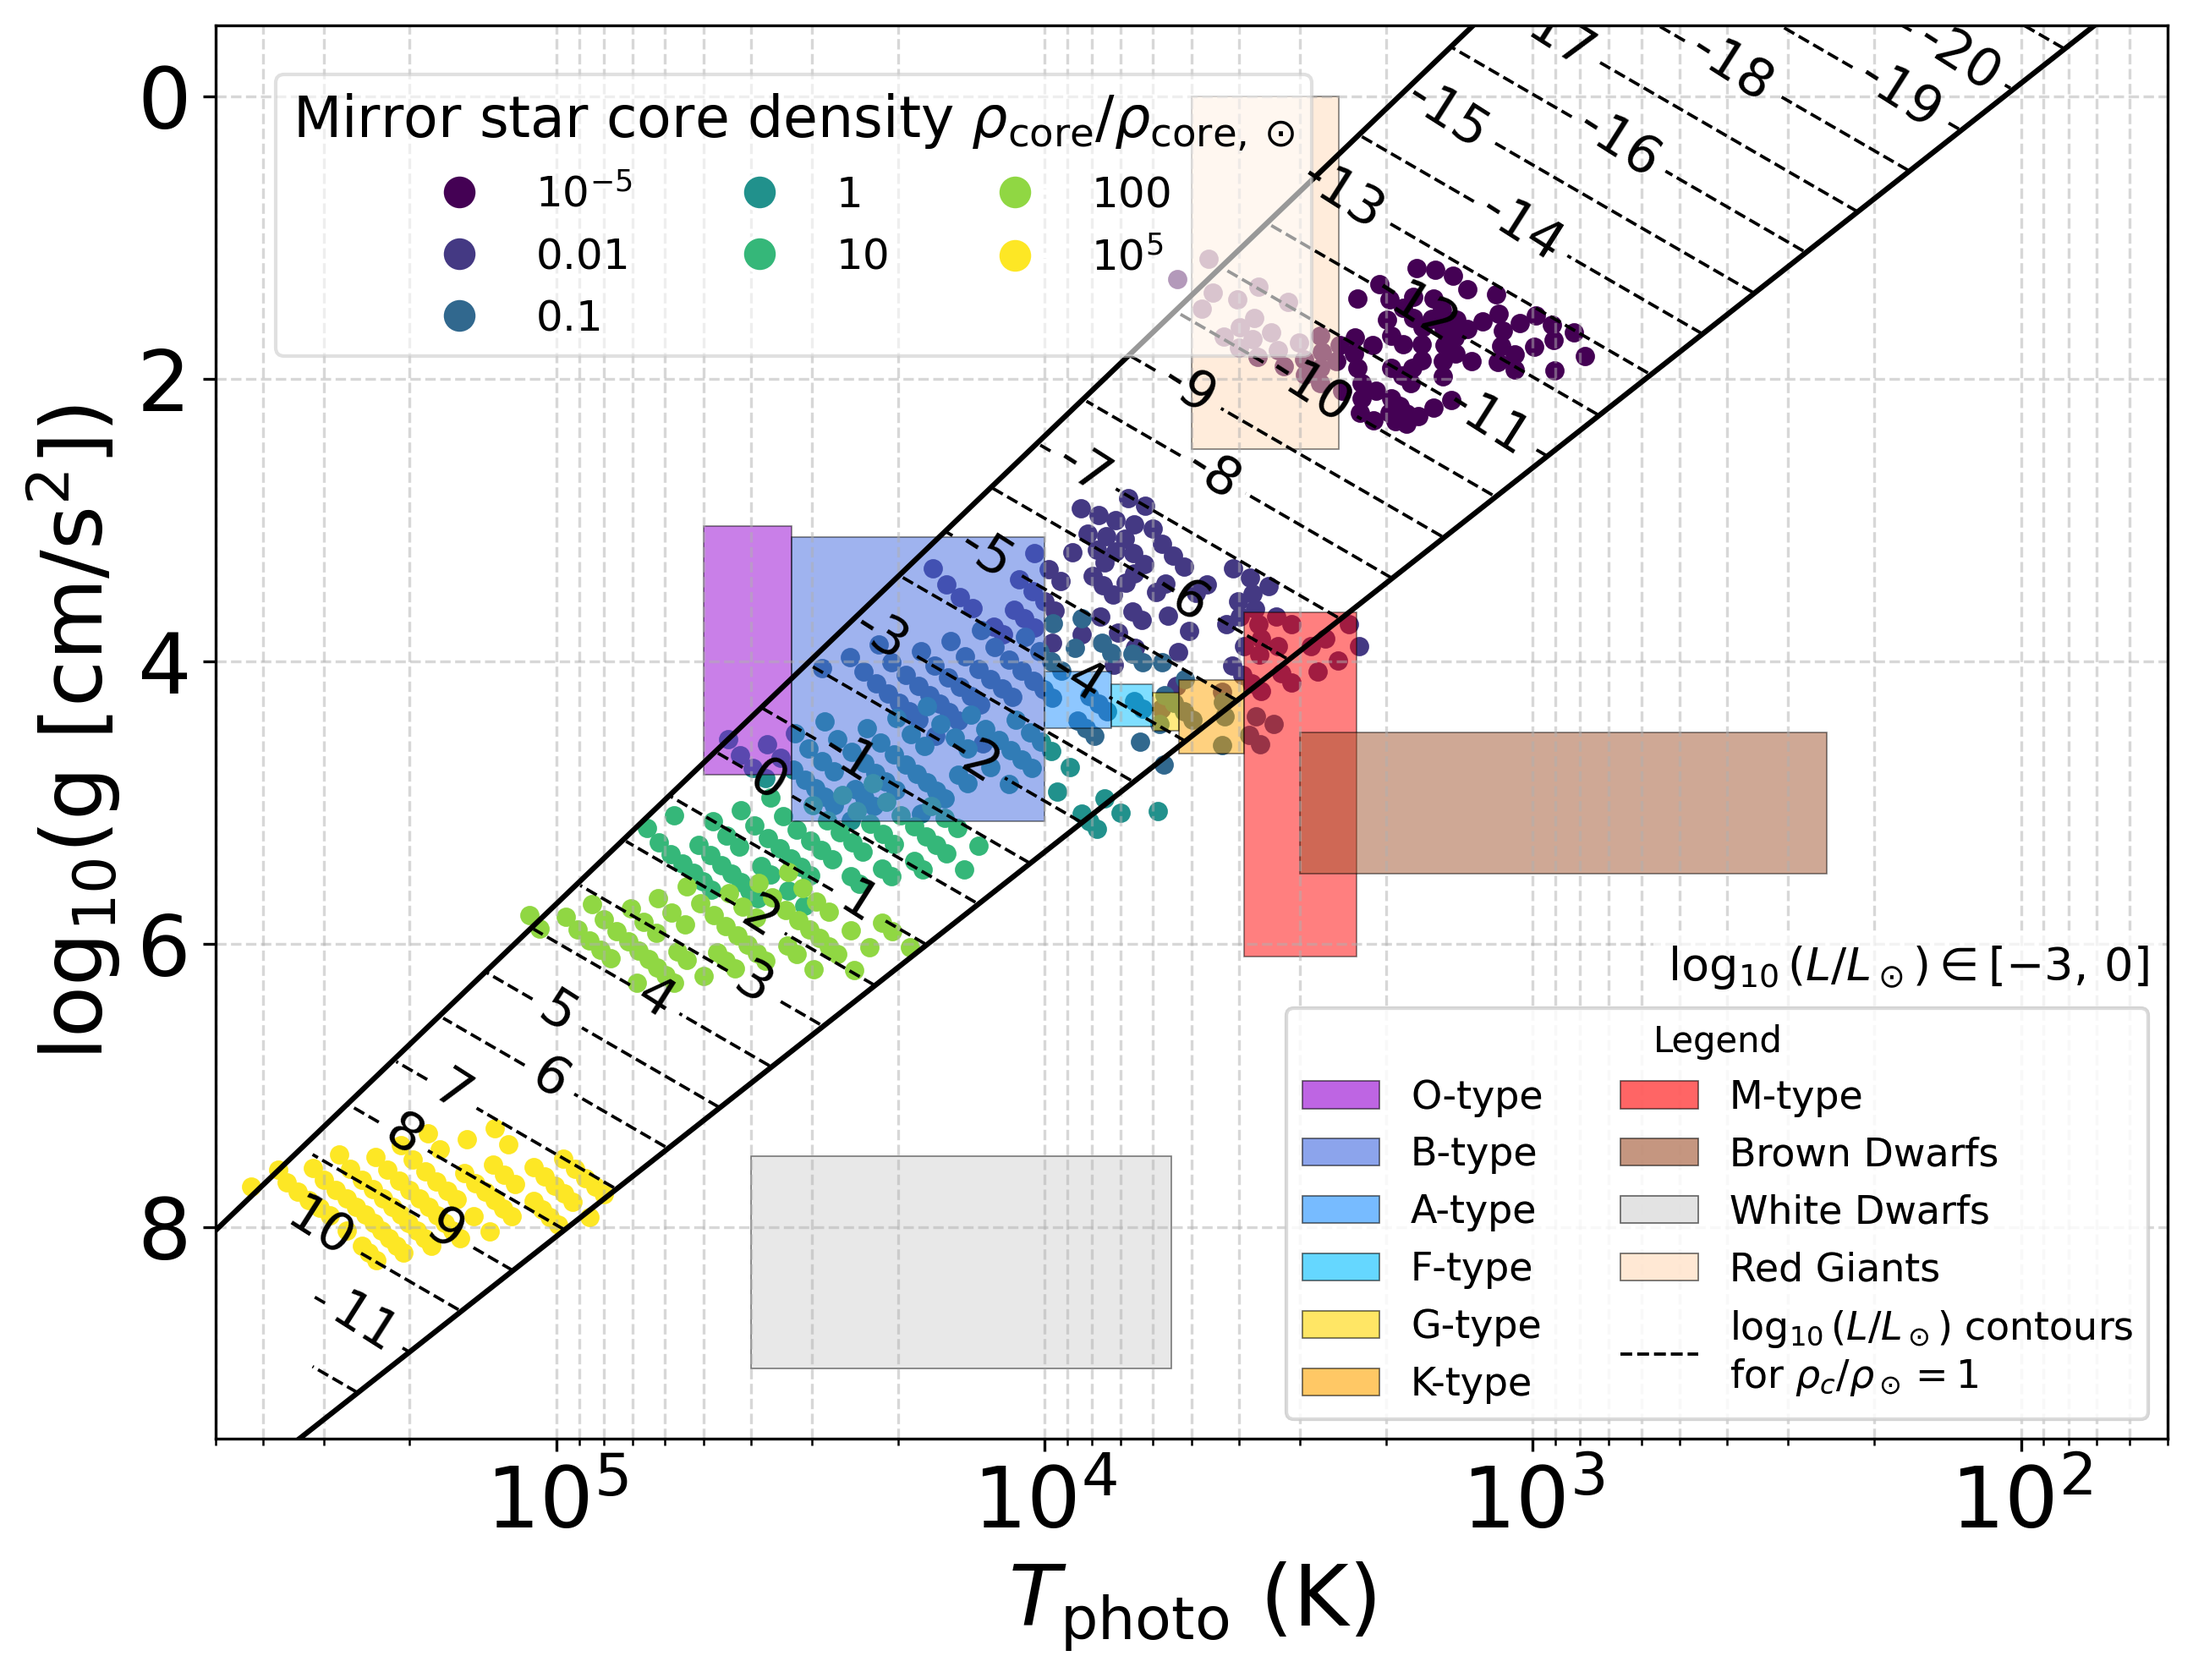
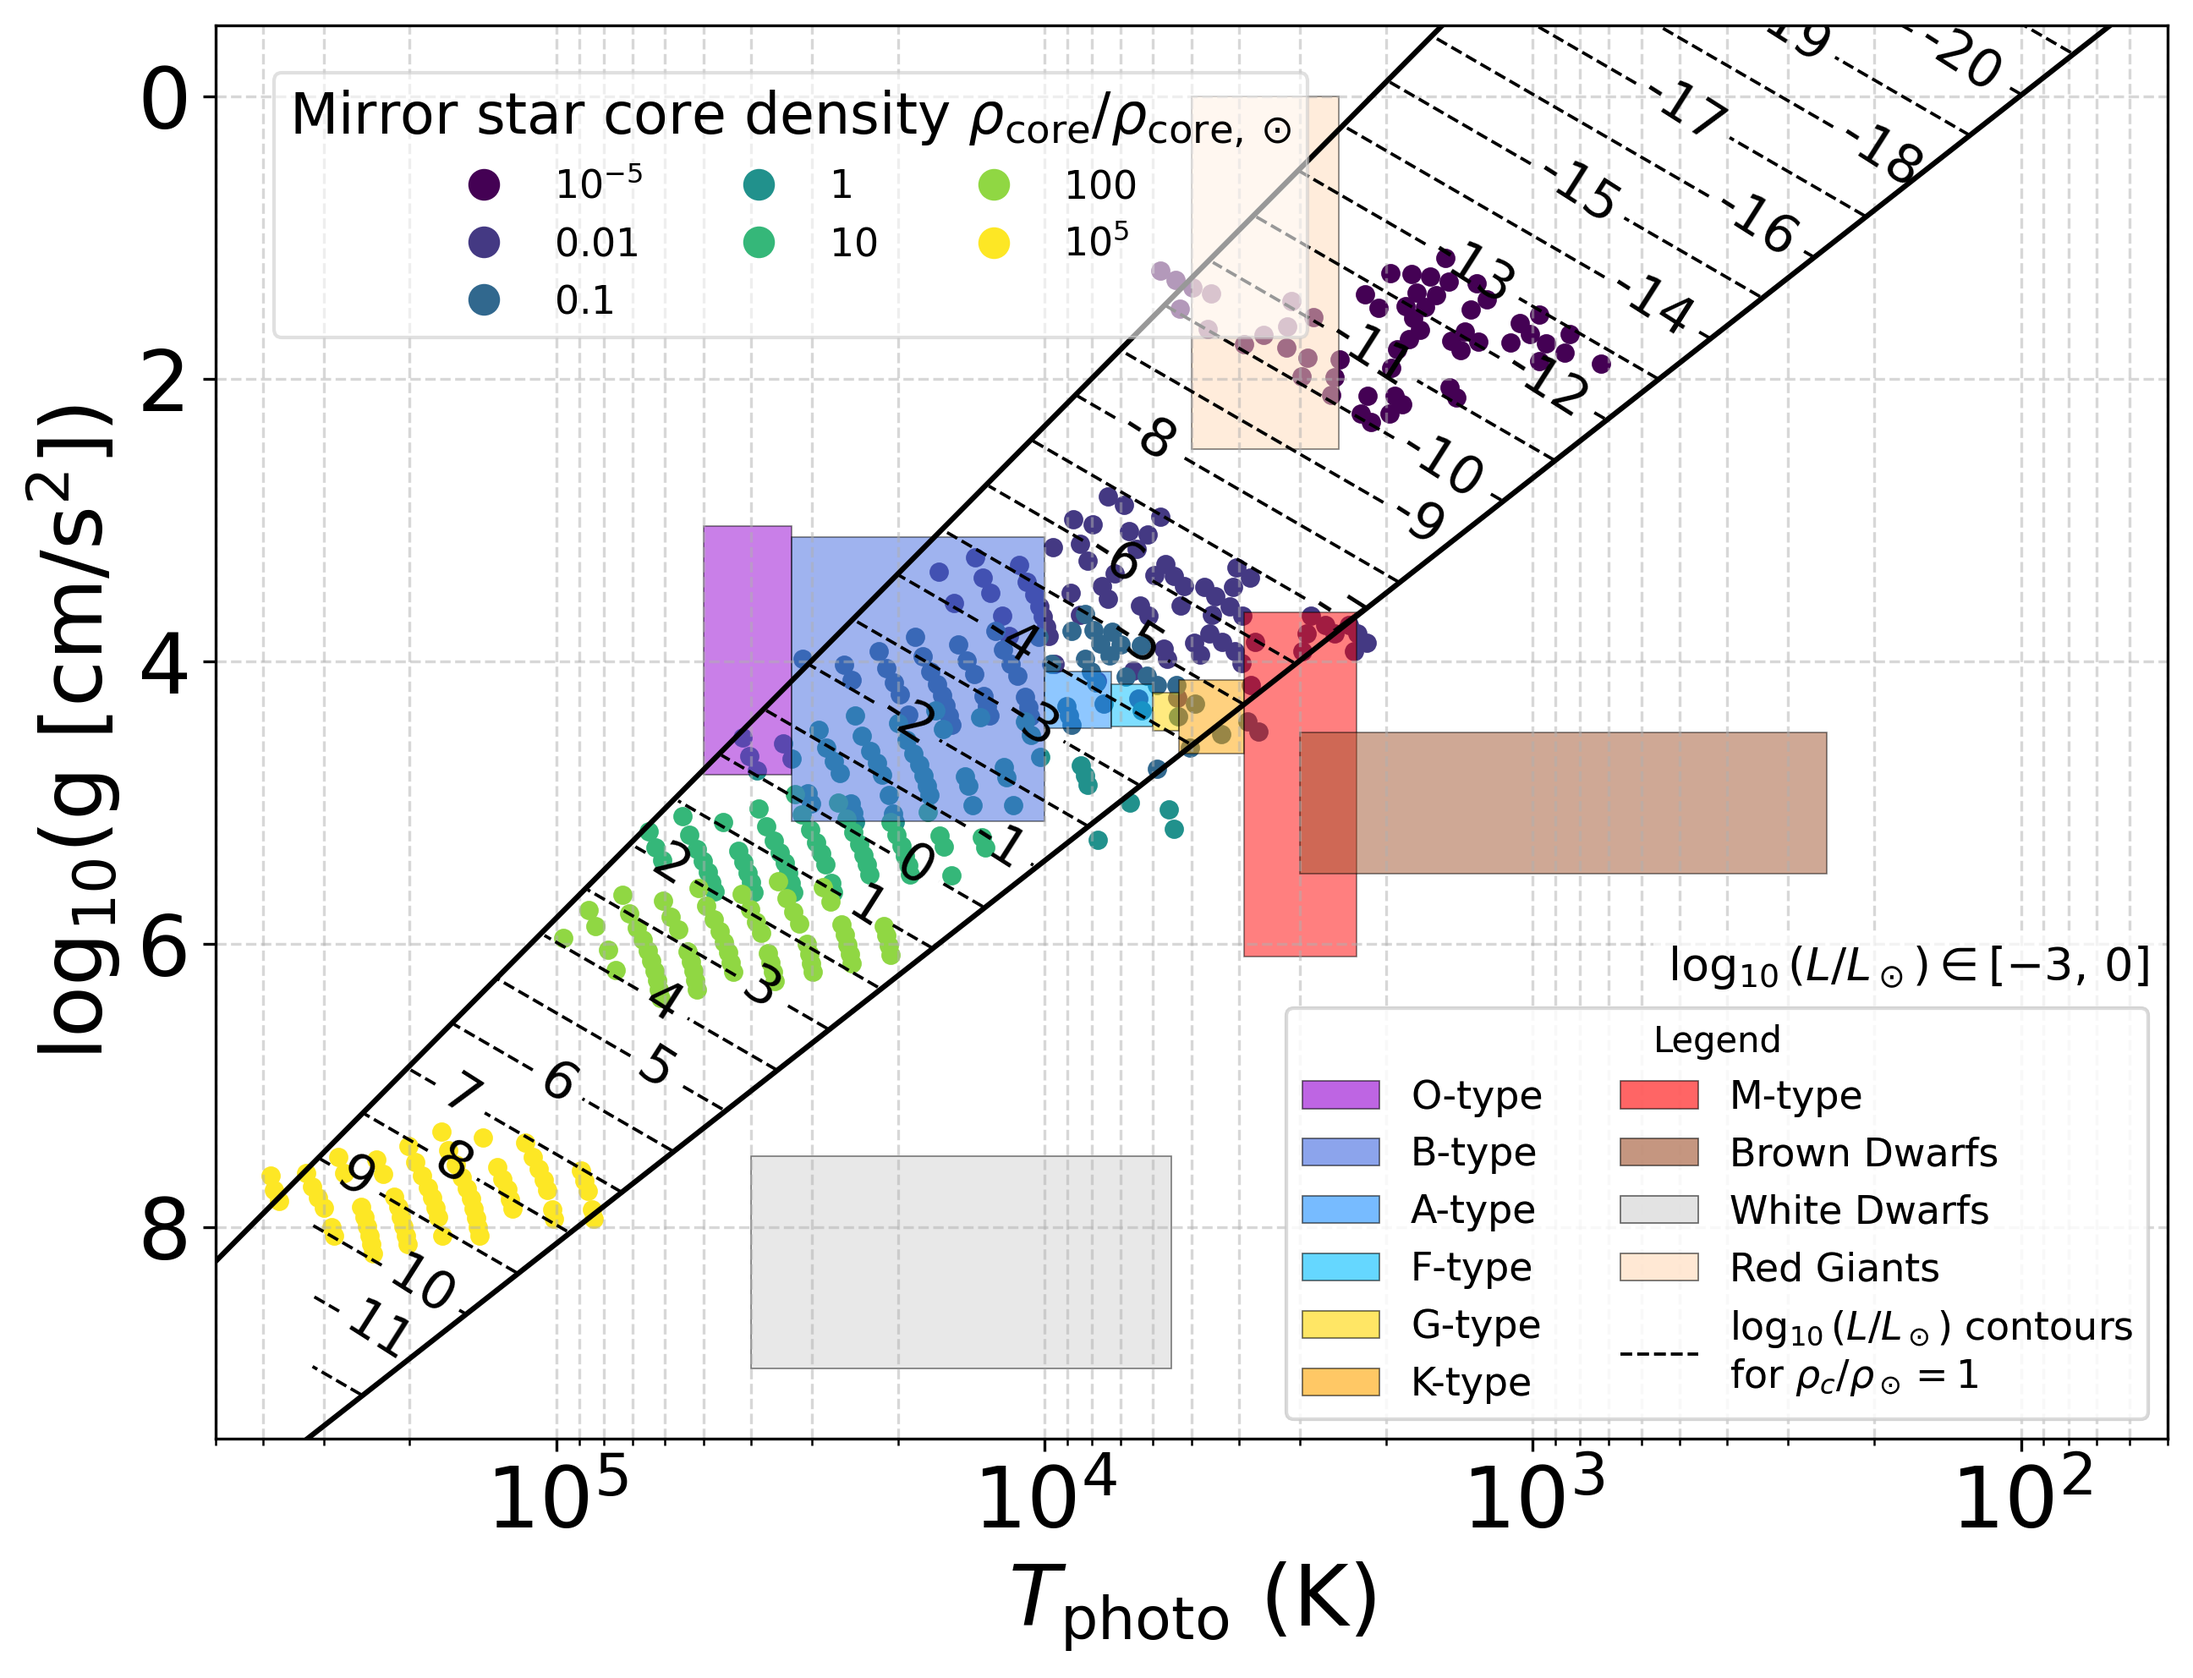
Minor change to HR plot format + using quick paramspace run (to be updated later)

diff --git a/optically_thick/em_signatures/make_plots.py b/optically_thick/em_signatures/make_plots.py
@@ -3,8 +3,20 @@
 """
 Reproducible plot generator for EM signatures/mirror-star contours.
 
-Recommended usage:
-  python em_signatures/make_plots.py --data-root em_signatures/data --plots-root em_signatures/plots
+Usage
+- Recommended working directory: optically_thick/
+    python em_signatures/make_plots.py --data-root em_signatures/data --plots-root em_signatures/plots
+
+- Use an external spectra directory:
+    python em_signatures/make_plots.py --data-root em_signatures/data --plots-root em_signatures/plots --spectra-root D:/mps-atlas/spectra
+
+CLI flags
+- --set-type {set1,set2}
+- --spectra-root <path>
+- --skip-spectra-examples
+- --skip-loggT
+- --skip-hr
+- --skip-hr-3d
 
 Inputs expected under --data-root:
   grids/grid_mh.txt
@@ -176,7 +188,7 @@ def load_contours(contour_path: Path) -> Dict[float, List[List[np.ndarray]]]:
     """
     JSON structure: {rho_frac_str: [contour, contour, ...]}
     contour = [xis, rho_cs, T_cs, L_photos, R_photos, T_photos, rho_photos, m_photos, r_rads,
-               L_ratios, R_max, M_max, tau_center]
+               L_ratios, R_max, M_max, tau_center, g_photo]
     Each element is list-like -> convert to numpy arrays.
     """
     with contour_path.open("r", encoding="utf-8") as f:
@@ -191,7 +203,8 @@ def load_contours(contour_path: Path) -> Dict[float, List[List[np.ndarray]]]:
 
 def trim_contours_tau(contour_dict: Dict[float, List[List[np.ndarray]]], tau_min: float = 10.0) -> Dict[float, List[List[np.ndarray]]]:
     """
-    Keep only indices where (10**tau_center) > tau_min
+    Filter each contour to keep only points where optical depth satisfies
+    (10**tau_center) > tau_min.
     """
     out: Dict[float, List[List[np.ndarray]]] = {}
     for rho_frac, contours in contour_dict.items():
@@ -278,7 +291,8 @@ def process_spectra_examples(
     spectra_root: Path | None = None,
 ) -> None:
     """
-    Reproduces the "interpolated vs nearest model" plot(s) for the example nuggets.
+    Generate example spectra plots for the two profile nuggets in
+    optically_thick/profiles using interpolated MPS-Atlas spectra.
     """
     # Use nuggets from the repository `profiles/` directory under optically_thick
     nuggets_dir = Path(__file__).resolve().parents[1] / "profiles"
@@ -364,10 +378,12 @@ def combined_plot(
     filename: str,
 ) -> None:
     """
-    Combined T_photo vs logg plot, with analytic luminosity contours, star-region boxes,
-    and per-rho scatter points.
+    Build one logg-T panel with:
+    - model points for each core-density slice,
+    - stellar classification regions,
+    - analytic log10(L/Lsun) contours clipped to fitted model bounds.
 
-    luminosity_band is in log10(L/Lsun): e.g. (-9, -3) or (-3, 0)
+    luminosity_band is in log10(L/Lsun), e.g. (-9, -3) or (-3, 0).
     """
     star_regions, region_colors = build_star_regions()
 
@@ -518,6 +534,7 @@ def combined_plot(
 
 # Gaia cache
 def load_gaia_hr_cache(gaia_cache_dir: Path) -> Tuple[np.ndarray, np.ndarray]:
+    """Load Gaia HR cache columns (M_G, BP_RP) from gaia_observed_hr.csv."""
     fp = gaia_cache_dir / "gaia_observed_hr.csv"
     if not fp.exists():
         raise FileNotFoundError(
@@ -528,6 +545,7 @@ def load_gaia_hr_cache(gaia_cache_dir: Path) -> Tuple[np.ndarray, np.ndarray]:
 
 
 def load_gaia_hr_logg_cache(gaia_cache_dir: Path) -> Tuple[np.ndarray, np.ndarray, np.ndarray]:
+    """Load Gaia HR+logg cache columns (M_G, BP_RP, logg)."""
     fp = gaia_cache_dir / "gaia_observed_hr_logg.csv"
     if not fp.exists():
         raise FileNotFoundError(
@@ -538,6 +556,7 @@ def load_gaia_hr_logg_cache(gaia_cache_dir: Path) -> Tuple[np.ndarray, np.ndarra
 
 
 def load_wd_hr_logg_cache(gaia_cache_dir: Path) -> Tuple[np.ndarray, np.ndarray, np.ndarray]:
+    """Load white-dwarf HR+logg cache columns (M_G, BP_RP, logg_H)."""
     fp = gaia_cache_dir / "gaia_white_dwarfs_hr_logg.csv"
     if not fp.exists():
         raise FileNotFoundError(
@@ -553,6 +572,7 @@ def stacked_hr_plots(
     plots_root: Path,
     gaia_cache_dir: Path,
 ) -> None:
+    """Create stacked 2D HR panels and write plots_root/HR/stacked_HR_threecol.png."""
     ensure_dir(plots_root / "HR")
 
     m_g, bp_rp = load_gaia_hr_cache(gaia_cache_dir)
@@ -594,7 +614,7 @@ def stacked_hr_plots(
         norm1 = mpl.colors.Normalize(0, 7+1/3)
         sc1 = ax1.scatter(colors_hr, M_G, c=logg, cmap=custom_cmap, norm=norm1, s=10, zorder=3)
         ax1.hexbin(bp_rp, m_g, gridsize=150, cmap="Greys", bins="log", zorder=1, alpha=1)
-        ax1.annotate(rf"$\rho_c={format_rho(rho_frac)}\,\rho_\odot$", xy=(-0.1, 0.5),
+        ax1.annotate(rf"$\rho_\mathrm{{core}}={format_rho(rho_frac)}\,\rho_{{\mathrm{{core}},\odot}}$", xy=(-0.1, 0.5),
                      xycoords="axes fraction", ha="right", va="center", rotation=90)
 
         # Col 2: color=logmass (discrete custom_cmap)
@@ -649,8 +669,8 @@ def stacked_hr_plots_3d(
     gaia_cache_dir: Path,
 ) -> None:
     """
-    Single-column stacked 3D HR plot (BP-RP, M_G, logg) combining:
-      - model points (logg computed from rho_c_sun * R_photo)
+        Stacked 3D HR plot (BP-RP, M_G, logg) combining:
+            - model points from contour data
       - Gaia observed stars with logg_gspphot (from cache)
       - Gaia WD catalog with logg_H (from cache)
 
@@ -761,7 +781,7 @@ def stacked_hr_plots_3d(
         ax.set_zticks([0, 5, 10])
 
         ax.text2D(
-            -0.06, 0.5, rf"$\rho_c = {format_rho(rho_frac)}\,\rho_\odot$",
+            -0.06, 0.5, rf"$\rho_\mathrm{{core}} = {format_rho(rho_frac)}\,\rho_{{\mathrm{{core}},\odot}}$",
             transform=ax.transAxes,
             fontweight="bold",
             ha="right", va="center",
@@ -800,6 +820,7 @@ def stacked_hr_plots_3d(
 
 # Main
 def main():
+    """Parse CLI args and generate requested plot groups."""
     parser = argparse.ArgumentParser()
     parser.add_argument(
         "--data-root",
@@ -845,7 +866,7 @@ def main():
     rho_arr = [1e-5, 0.01, 0.1, 1, 10, 100, 1e5]
 
     # Load contour file from paramspace
-    contour_path = Path(__file__).parent.parent / "paramspace" / "contour_dict.json"
+    contour_path = Path(__file__).parent.parent / "paramspace_quick" / "contour_dict.json"
 
     contour_dict = load_contours(contour_path)
     contour_dict_trimmed = trim_contours_tau(contour_dict, tau_min=10.0)
